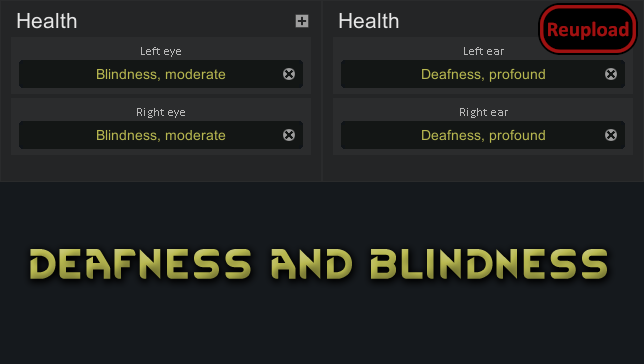
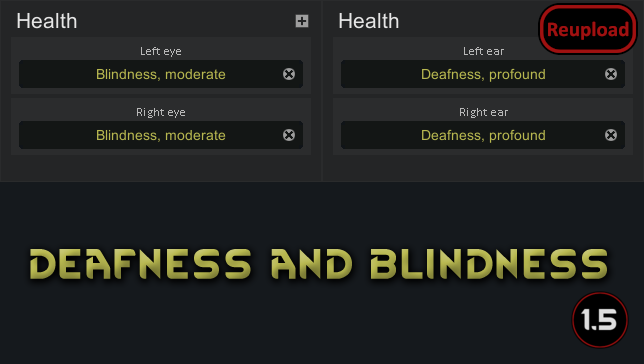
Mod updated for 1.5 and passed autotests

Changed region(s): [[0.8696, 0.7857, 0.9938, 0.967]]

diff --git a/README.md b/README.md
@@ -24,11 +24,13 @@ https://steamcommunity.com/sharedfiles/filedetails/?id=2019740307
 
 -  See if the the error persists if you just have this mod and its requirements active.
 -  If not, try adding your other mods until it happens again.
--  Post your error-log using https://steamcommunity.com/workshop/filedetails/?id=818773962]HugsLib and command Ctrl+F12
+-  Post your error-log using https://steamcommunity.com/workshop/filedetails/?id=818773962]HugsLib or the standalone https://steamcommunity.com/sharedfiles/filedetails/?id=2873415404]Uploader and command Ctrl+F12
 -  For best support, please use the Discord-channel for error-reporting.
 -  Do not report errors by making a discussion-thread, I get no notification of that.
 -  If you have the solution for a problem, please post it to the GitHub repository.
+-  Use https://github.com/RimSort/RimSort/releases/latest]RimSort to sort your mods
 
 
 
+https://steamcommunity.com/sharedfiles/filedetails/changelog/2019740307]![Image](https://img.shields.io/github/v/release/emipa606/DeafnessBlindness?label=latest%20version&style=plastic&color=9f1111&labelColor=black)
 
